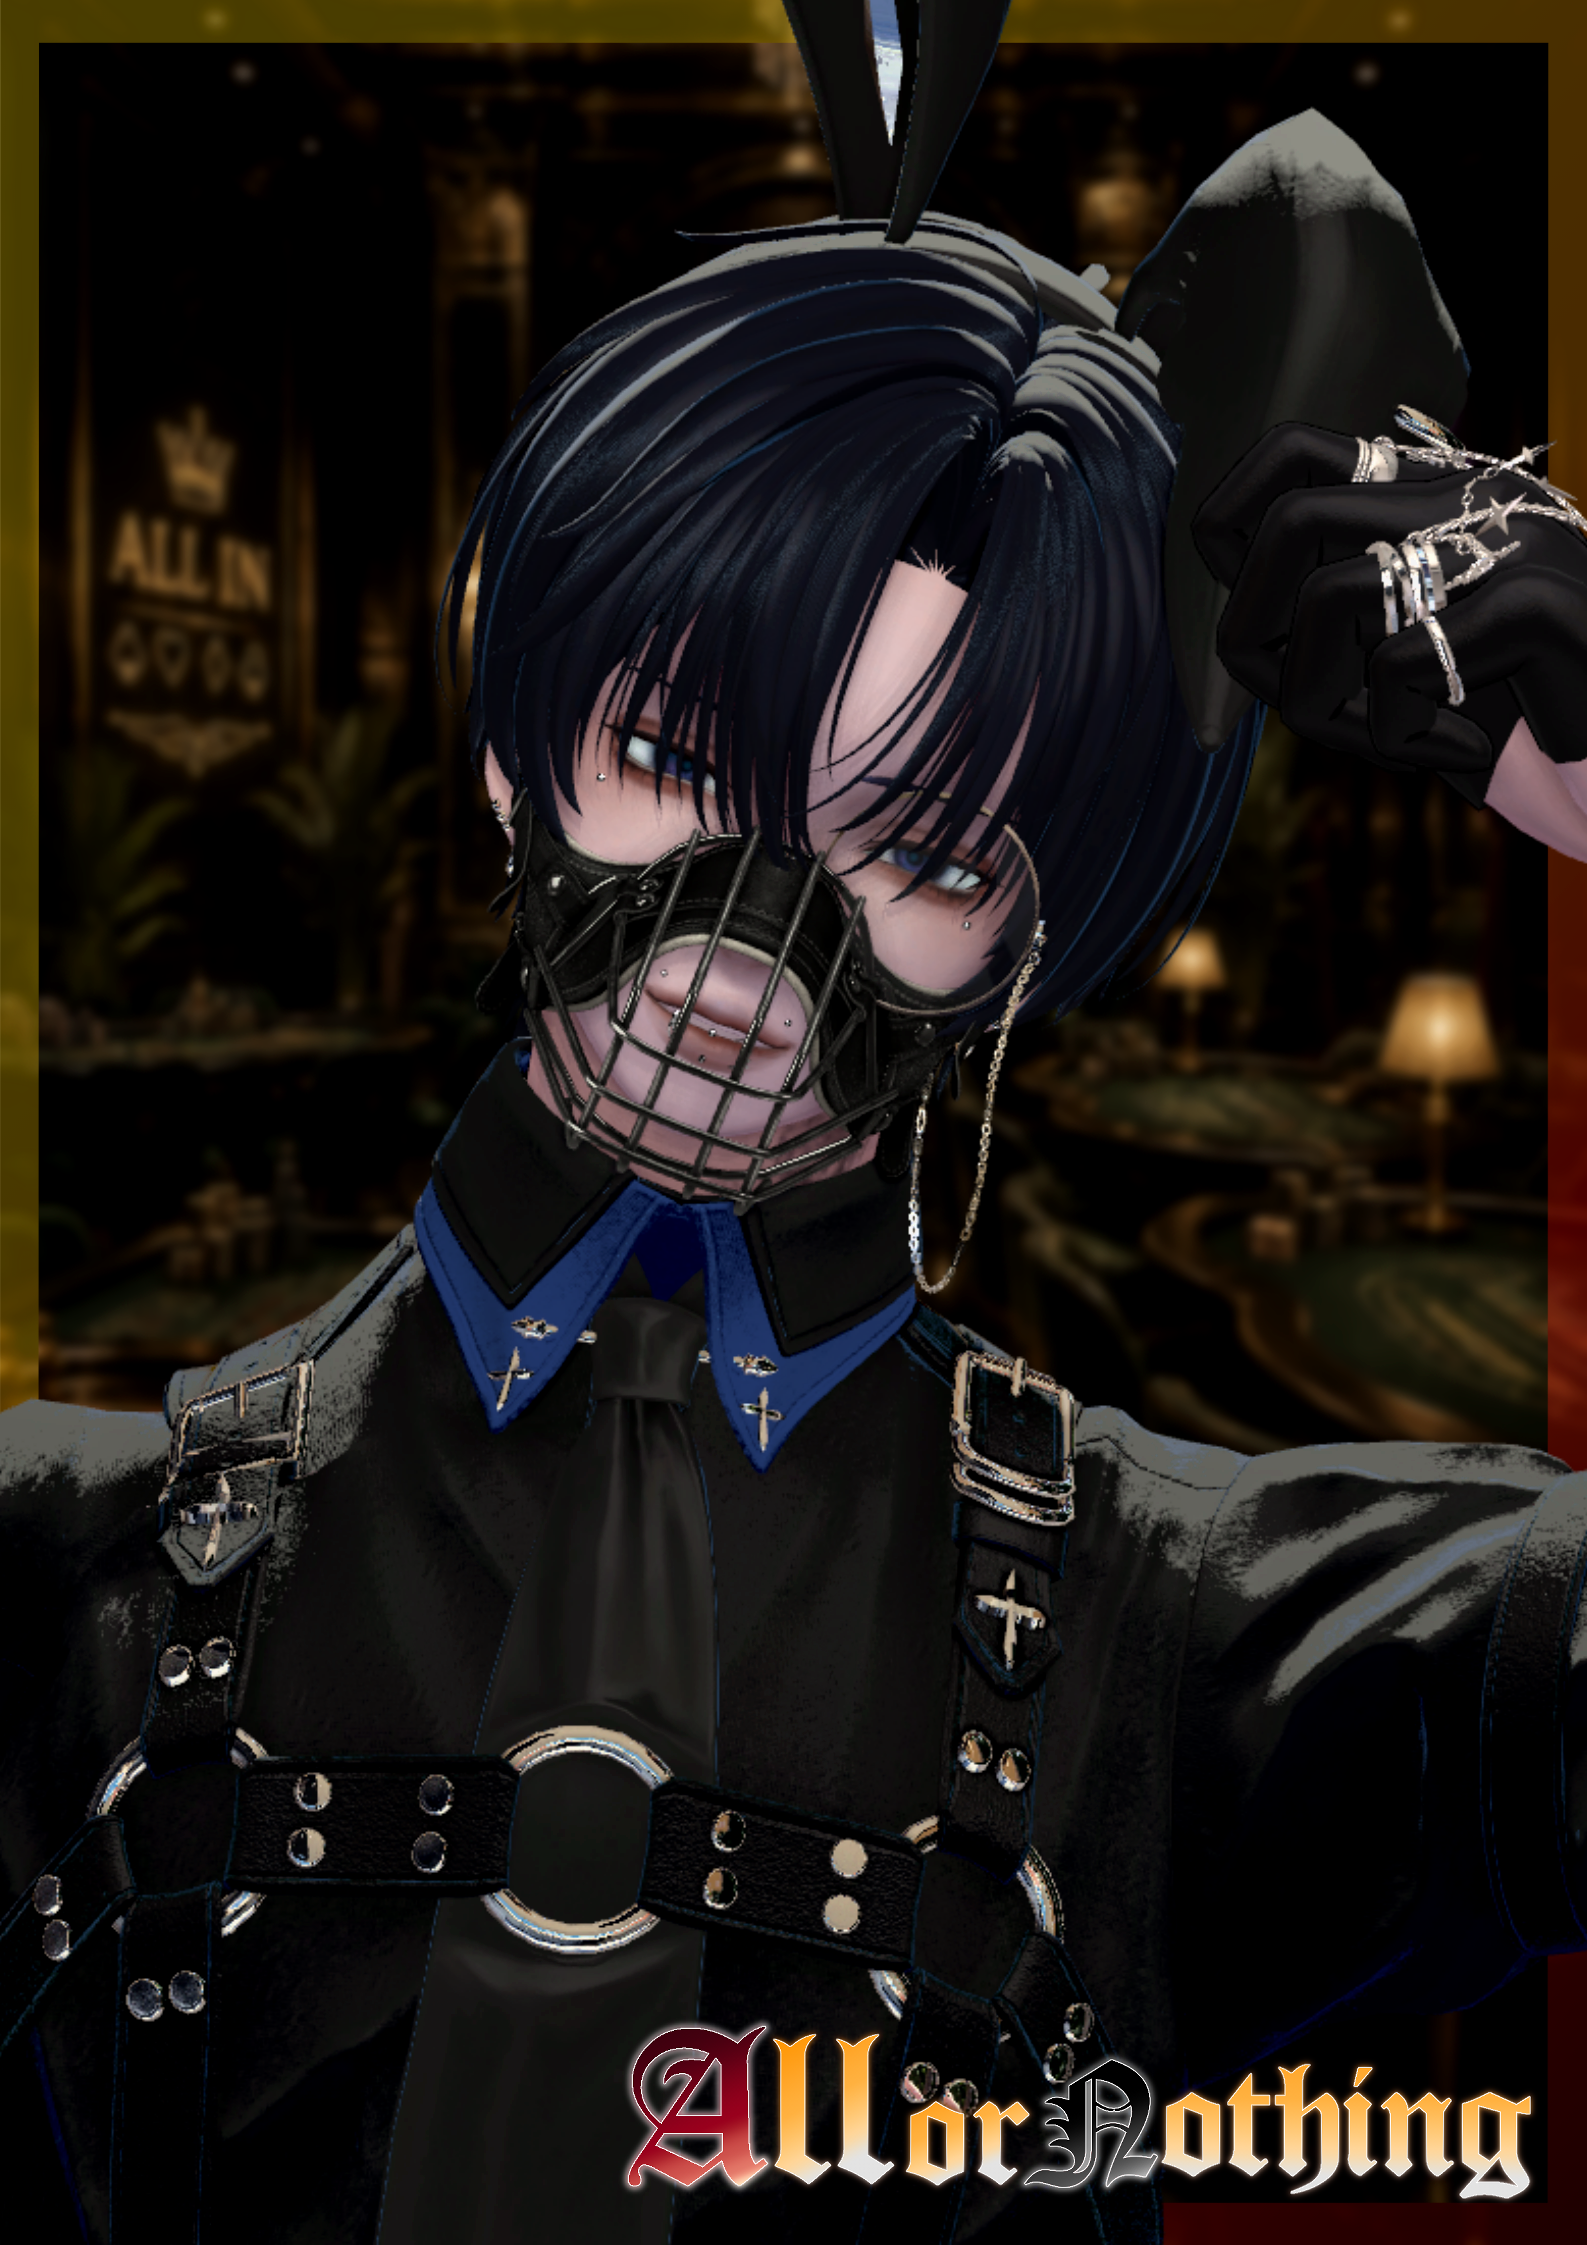
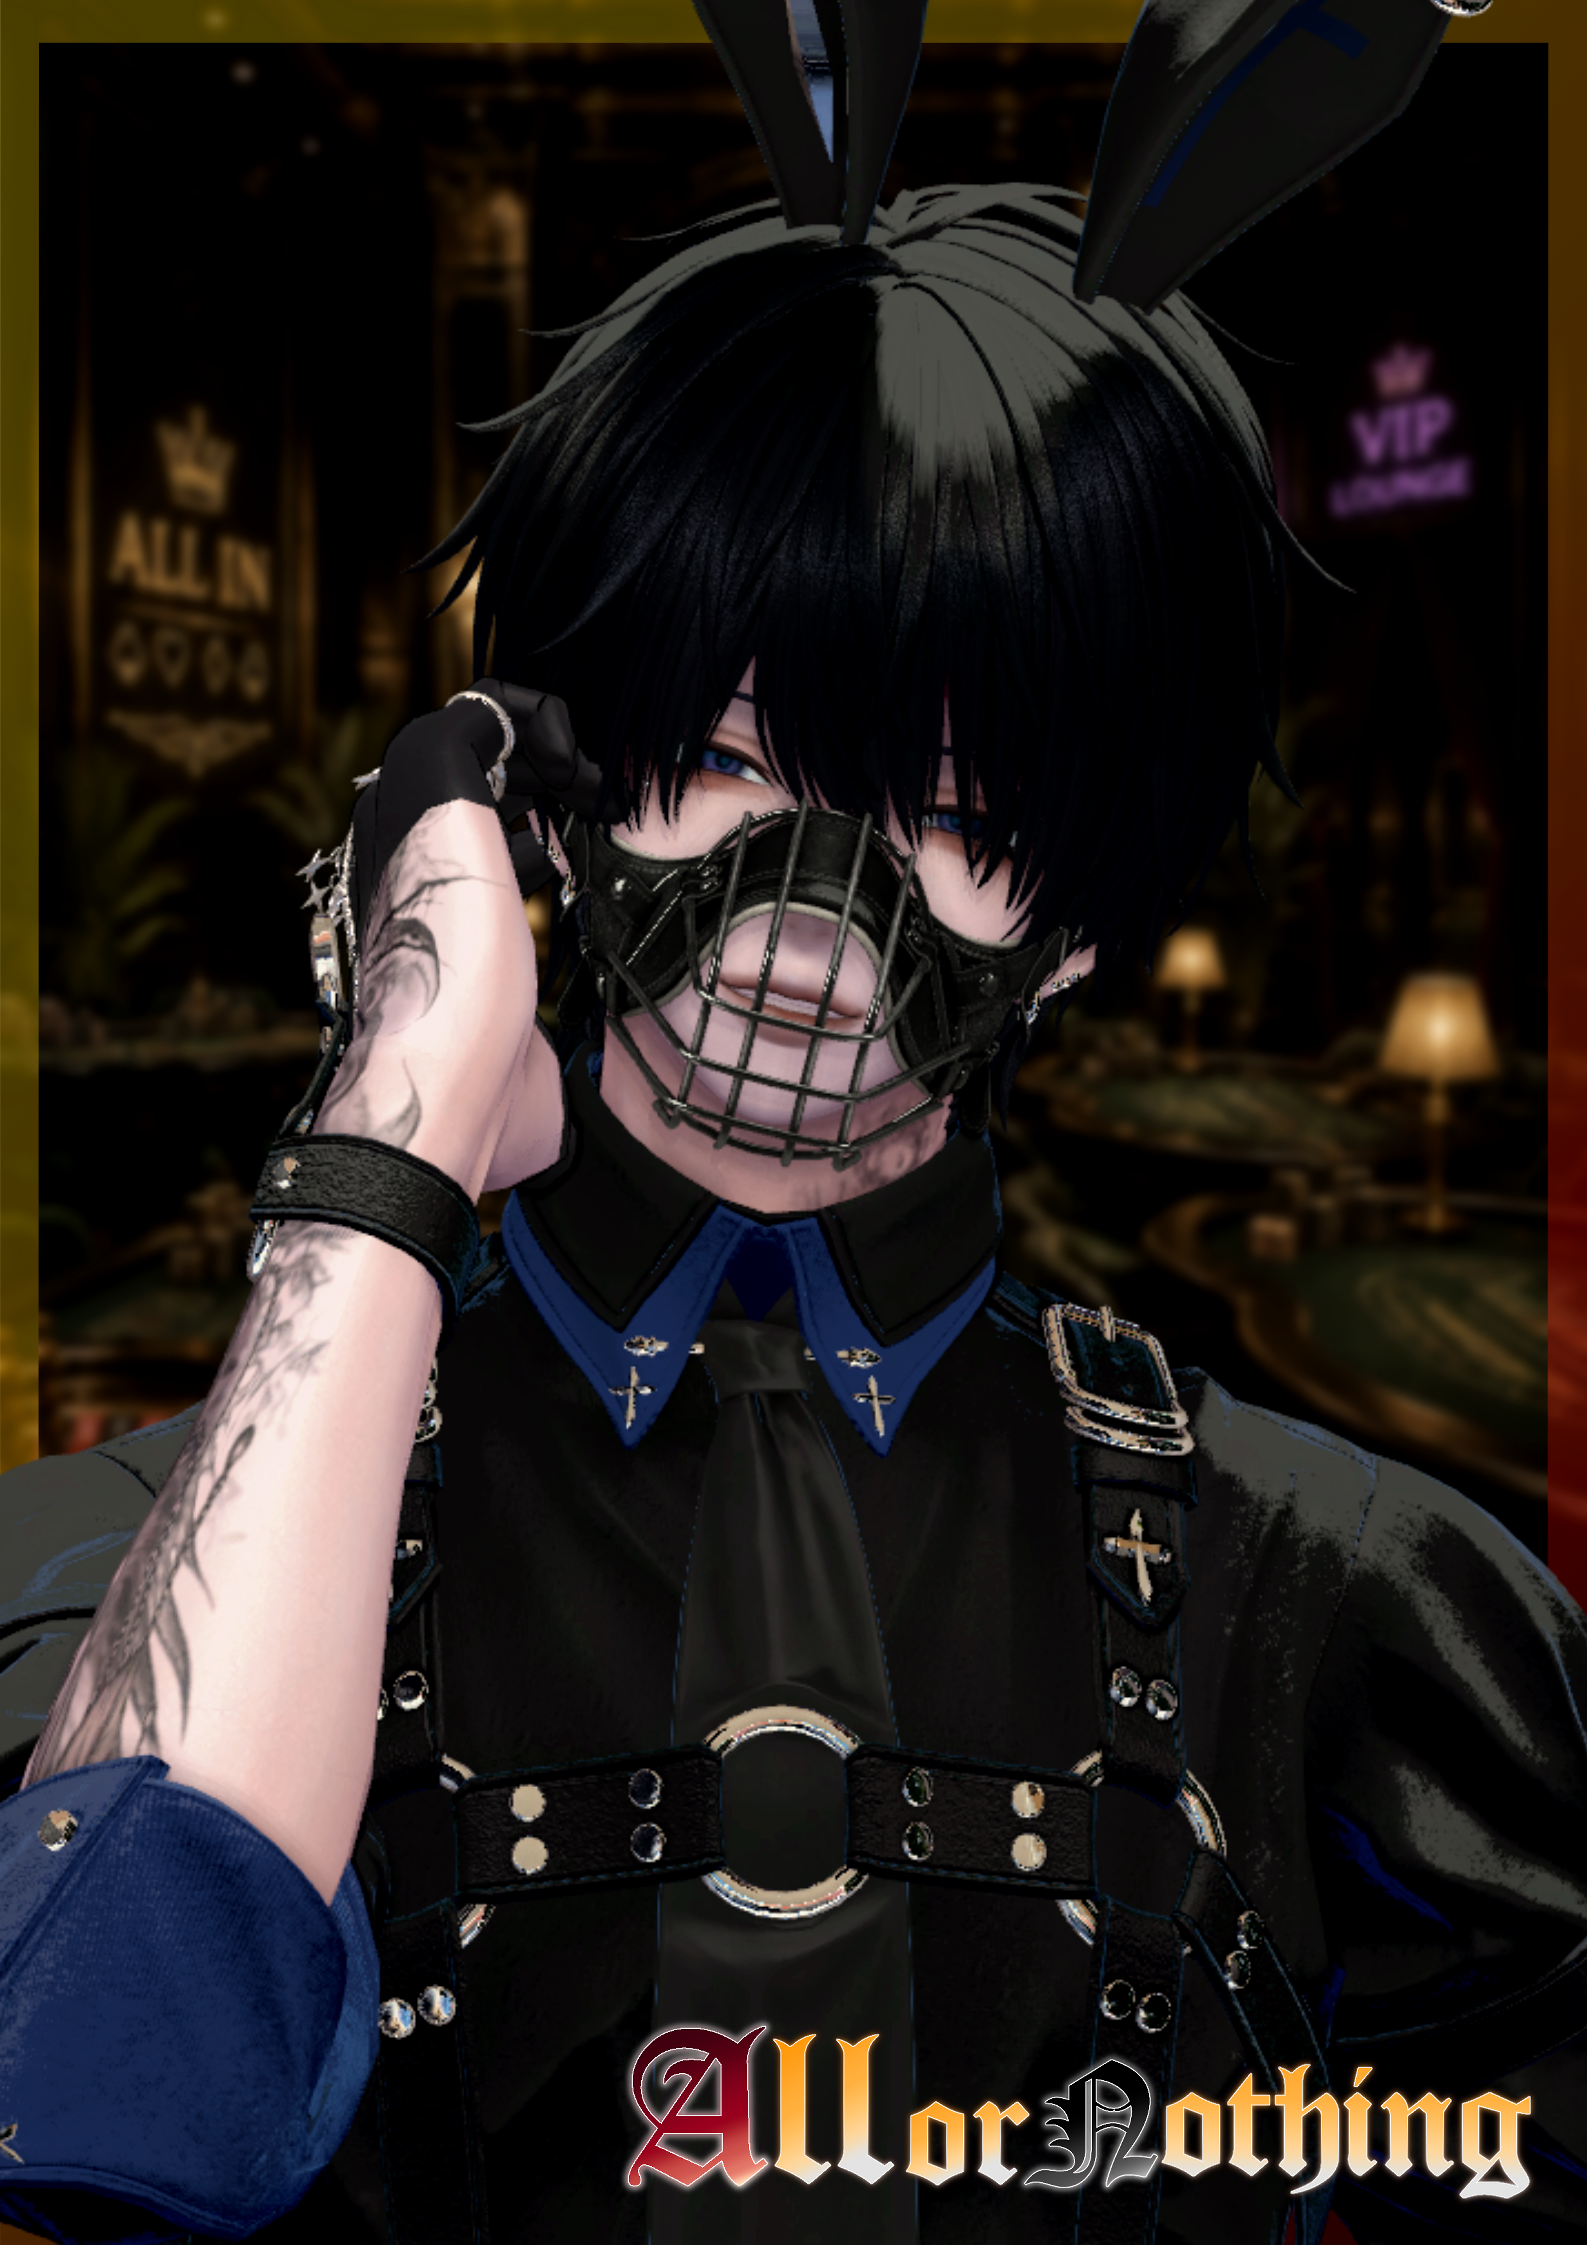
Add files via upload

diff --git a/index.html b/index.html
@@ -286,7 +286,7 @@
         <span class="host-profile-label">HOST PROFILE</span>
         <h3 id="noaProfileName">星羅  <span class="cast-reading">-Stella-</span></h3>
         <span class="host-profile-rule"></span>
-        <p class="host-profile-copy">のありすけるたあ～</p>
+        <p class="host-profile-copy">全部欲しい？　欲張りだね。<br>僕を独り占めしたいって、ちゃんと言って？</p>
         <a href="https://x.com/nichtisender" target="_blank" rel="noopener" class="cast-x"> X / PROFILE </a>
       </div>
     </div>
@@ -316,7 +316,7 @@
         <span class="host-profile-label">HOST PROFILE</span>
         <h3 id="shikiProfileName">四季  <span class="cast-reading">-Shiki-</span></h3>
         <span class="host-profile-rule"></span>
-        <p class="host-profile-copy">春夏秋冬</p>
+        <p class="host-profile-copy">予告する。<br>今夜、君のハートをいただくね。</p>
         <a href="https://x.com/shikisai_VRC" target="_blank" rel="noopener" class="cast-x"> X / PROFILE </a>
       </div>
     </div>
